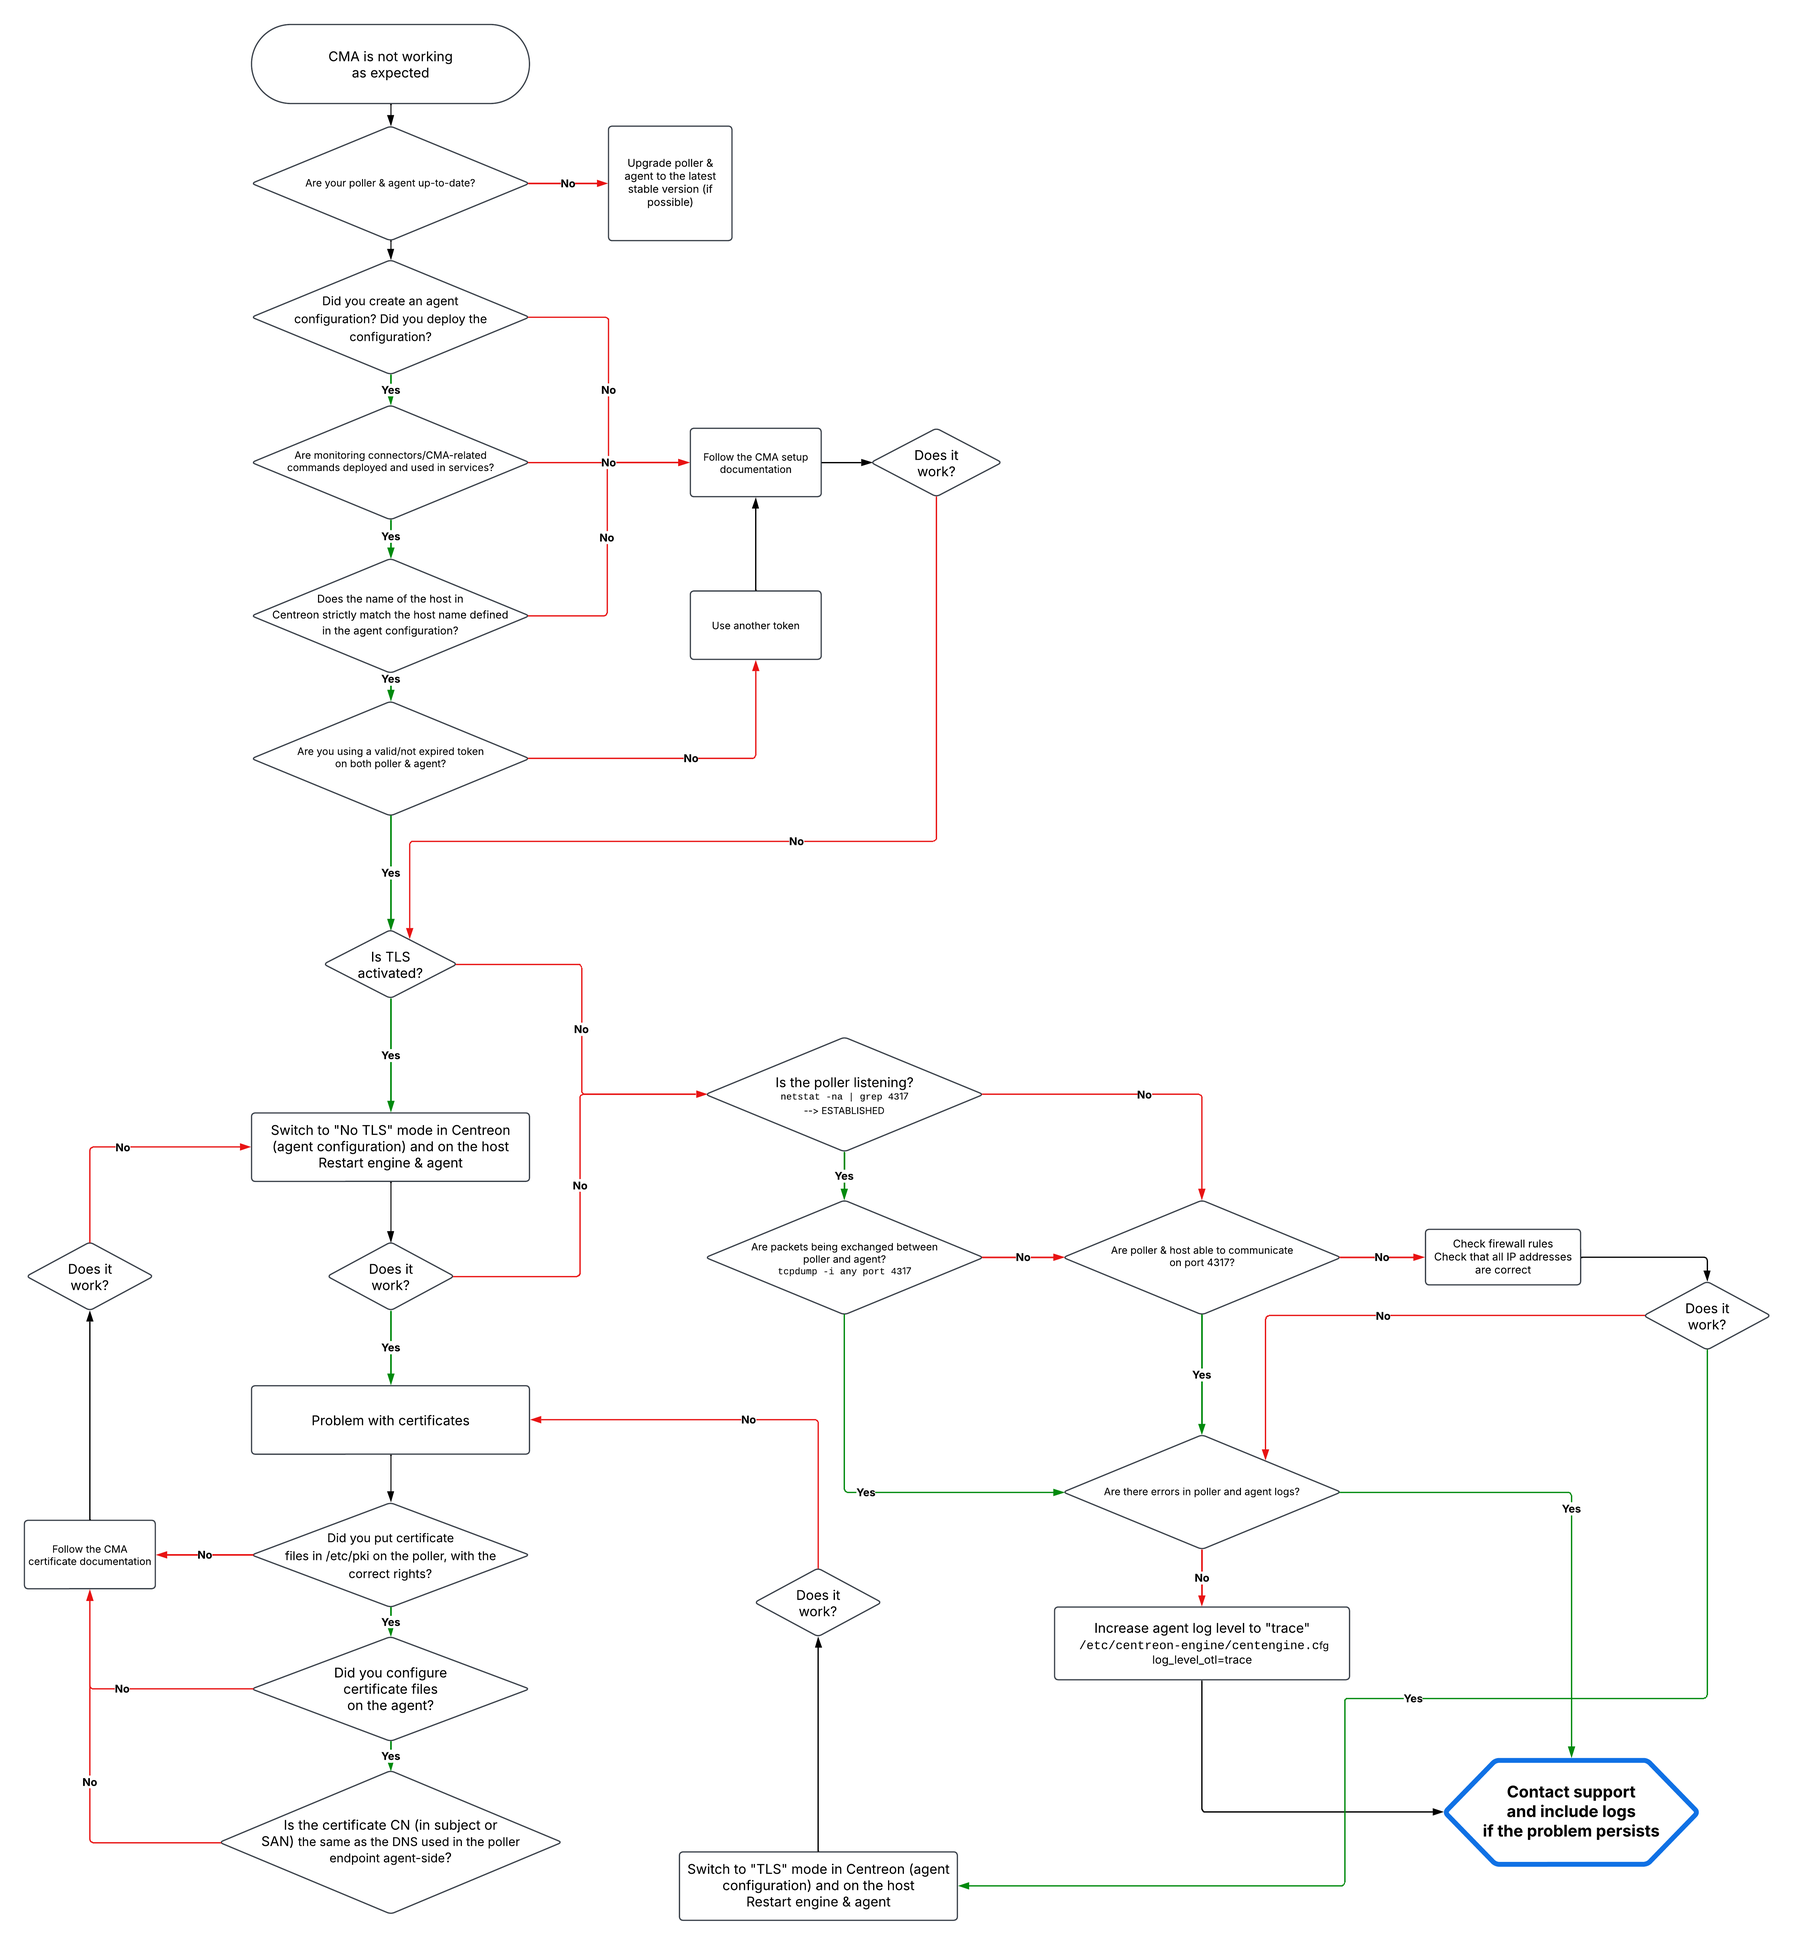
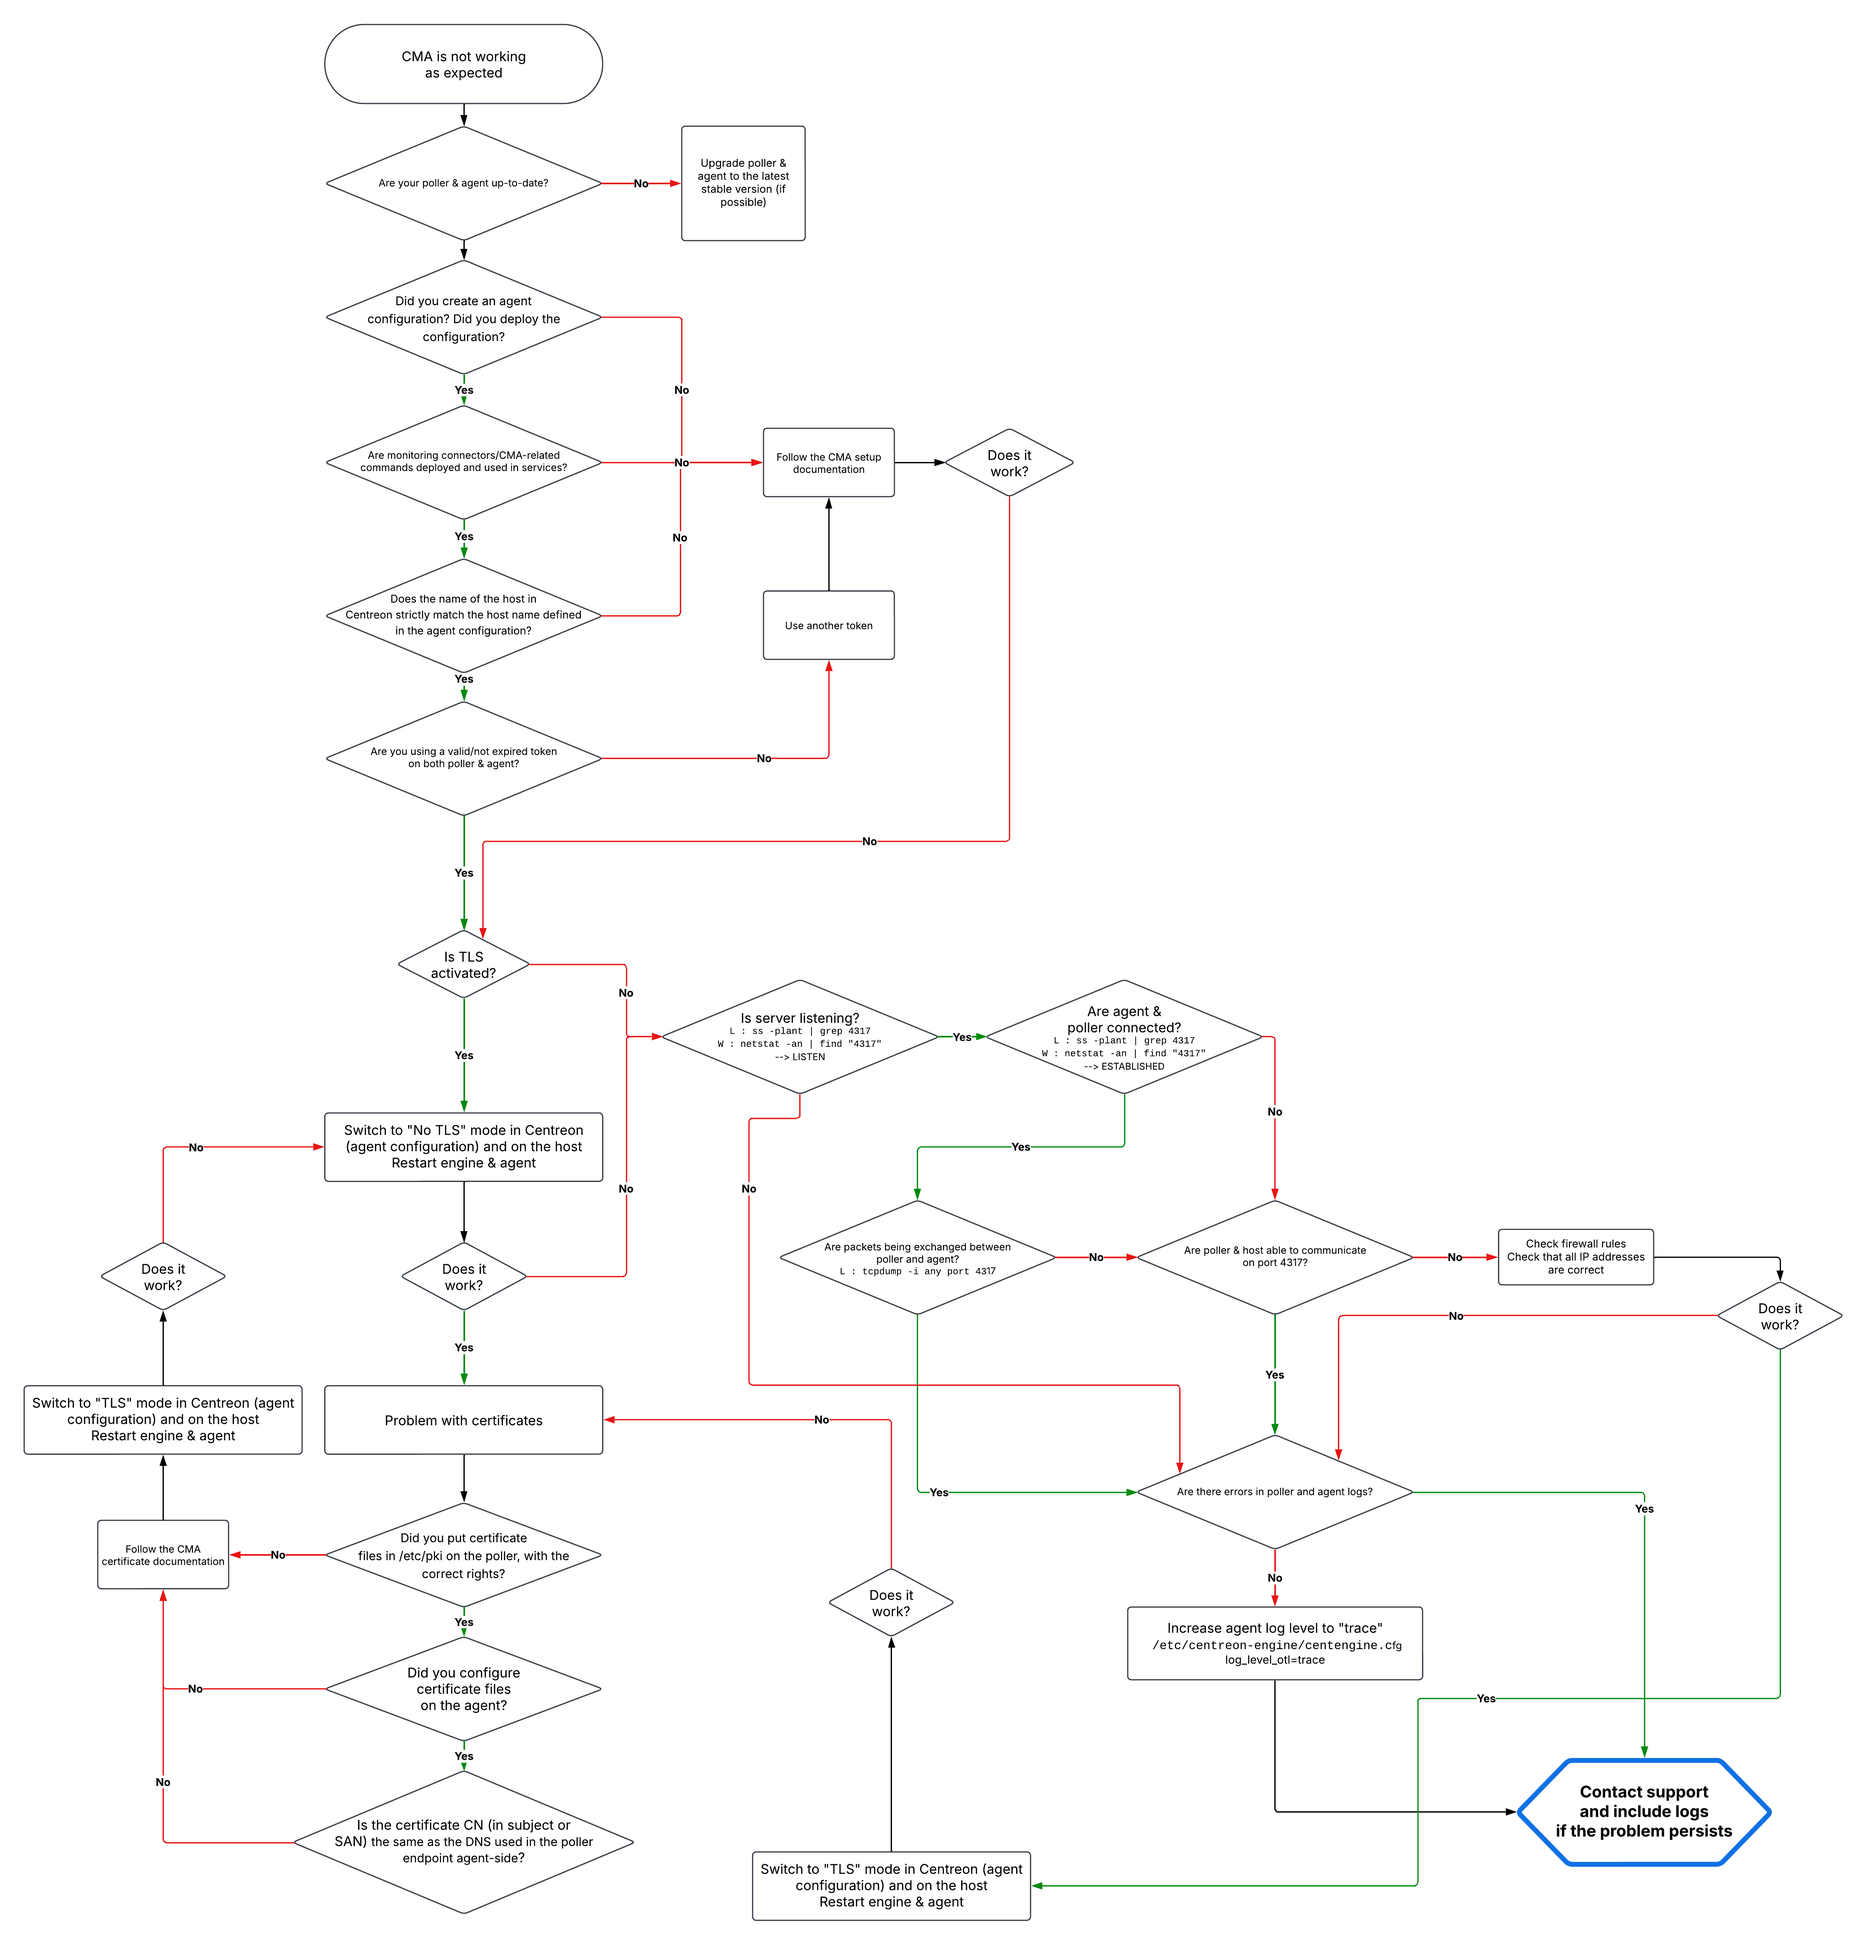
changes following review

diff --git a/pp/integrations/plugin-packs/getting-started/how-to-guides/cma/cma-troubleshooting.md b/pp/integrations/plugin-packs/getting-started/how-to-guides/cma/cma-troubleshooting.md
@@ -62,15 +62,19 @@ No lines should be returned.
 2. Execute the following command:
 
    ```bash
-   netstat -na | grep 4317
+  ss -plant | grep 4317
    ```
 
-   This command must return results, showing that the server is listening (ESTABLISHED).
+   This command must return results, showing that the agent is listening (LISTEN) or that the connection is established (ESTABLISHED).
 
    ```bash
-   Active Internet connections (servers and established)
-   Proto Recv-Q Send-Q Local Address           Foreign Address         State
-   tcp        0      0 127.0.0.1:4317          <POLLER IP>:<PORT>      ESTABLISHED
+   State           Recv-Q       Send-Q             Local Address:Port                Peer Address:Port       Process
+   LISTEN          0            0                      0.0.0.0:4317                       ::::
+   ```
+
+   ```bash
+   State           Recv-Q       Send-Q             Local Address:Port                Peer Address:Port       Process
+   ESTAB          0            0                      0.0.0.0:4317                       <POLLER IP>:<PORT> 
    ```
 
 </TabItem>
@@ -115,13 +119,21 @@ The value **true** must be returned.
 2. Execute the following command:
 
    ```bash
-   netstat -na | grep 4317
+   netstat -an | find "4317"
    ```
 
-   This command must return results, showing that the server is listening (ESTABLISHED).
+   This command must return results, showing that the agent is listening (LISTEN) or that the connection is established (ESTABLISHED).
 
    ```bash
-   TCP        127.0.0.1:4317          <IP COLLECTEUR>:<PORT>               ESTABLISHED
+   Active Internet connections (servers and established)
+   Proto Recv-Q Send-Q Local Address           Foreign Address         State
+   tcp        0      0 0.0.0.0:4317          ::::                    LISTEN
+   ```
+
+   ```bash
+   Active Internet connections (servers and established)
+   Proto Recv-Q Send-Q Local Address           Foreign Address         State
+   tcp        0      0 0.0.0.0:4317          <POLLER IP>:<PORT>      ESTABLISHED
    ```
 
 </TabItem>
@@ -141,15 +153,19 @@ The value **true** must be returned.
 2. Execute the following command:
 
    ```bash
-   netstat -na | grep 4317
+   ss -plant | grep 4317
    ```
 
-   This command must return results, showing that the server is listening (ESTABLISHED).
+   This command must return results, showing that the poller is listening (LISTEN) or that the connection is established (ESTABLISHED).
 
    ```bash
-   Active Internet connections (servers and established)
-   Proto Recv-Q Send-Q Local Address           Foreign Address         State
-   tcp        0      0 127.0.0.1:4317          <HOST IP>:<PORT>        ESTABLISHED
+   State           Recv-Q       Send-Q             Local Address:Port                Peer Address:Port       Process
+   LISTEN          0            0                      0.0.0.0:4317                       ::::
+   ```
+
+   ```bash
+   State           Recv-Q       Send-Q             Local Address:Port                Peer Address:Port       Process
+   ESTAB          0            0                      0.0.0.0:4317                       <HOST IP>:<PORT> 
    ```
 
 </TabItem>

diff --git a/i18n/fr/docusaurus-plugin-content-docs-pp/current/integrations/plugin-packs/getting-started/how-to-guides/cma/cma-troubleshooting.md b/i18n/fr/docusaurus-plugin-content-docs-pp/current/integrations/plugin-packs/getting-started/how-to-guides/cma/cma-troubleshooting.md
@@ -62,15 +62,21 @@ Aucune ligne ne doit être retournée.
 2. Exécutez la commande suivante :
 
    ```bash
-   netstat -na | grep 4317
+   ss -plant | grep 4317
    ```
 
-   Elle doit retourner des résultats, indiquant que le serveur est en écoute (ESTABLISHED).
+   Elle doit retourner des résultats, indiquant que le serveur est en écoute (LISTEN) ou que la connexion est établie (ESTABLISHED).
 
    ```bash
    Active Internet connections (servers and established)
    Proto Recv-Q Send-Q Local Address           Foreign Address         State
-   tcp        0      0 127.0.0.1:4317          <IP COLLECTEUR>:<PORT>  ESTABLISHED
+   tcp        0      0 0.0.0.0:4317          ::::                    LISTEN
+   ```
+
+    ```bash
+   Active Internet connections (servers and established)
+   Proto Recv-Q Send-Q    Local Address           Foreign Address         State
+   tcp        0      0    0.0.0.0:4317          <IP COLLECTEUR>:<PORT>  ESTABLISHED
    ```
 
 </TabItem>
@@ -118,10 +124,18 @@ La valeur **true** doit être retournée.
    netstat -an | find "4317"
    ```
 
-   Elle doit retourner des résultats, indiquant que le serveur est en écoute (ESTABLISHED).
+   Elle doit retourner des résultats, indiquant que l'agent est en écoute (LISTEN) ou que la connexion est établie (ESTABLISHED).
+
+  ```bash
+   Active Internet connections (servers and established)
+   Proto Recv-Q Send-Q Local Address           Foreign Address         State
+   tcp        0      0 0.0.0.0:4317          ::::                    LISTEN
+   ```
 
    ```bash
-   TCP        127.0.0.1:4317          <IP COLLECTEUR>:<PORT>               ESTABLISHED
+   Active Internet connections (servers and established)
+   Proto Recv-Q Send-Q Local Address           Foreign Address         State
+   tcp        0      0 0.0.0.0:4317          <IP COLLECTEUR>:<PORT>      ESTABLISHED
    ```
 
 </TabItem>
@@ -141,15 +155,21 @@ La valeur **true** doit être retournée.
 2. Exécutez la commande suivante :
 
    ```bash
-   netstat -na | grep 4317
+   ss -plant | grep 4317
    ```
 
-   Elle doit retourner des résultats, indiquant que le serveur est en écoute (ESTABLISHED).
+   Elle doit retourner des résultats, indiquant que le collecteur est en écoute (LISTEN) ou que la connexion est établie (ESTABLISHED).
 
    ```bash
    Active Internet connections (servers and established)
    Proto Recv-Q Send-Q Local Address           Foreign Address         State
-   tcp        0      0 127.0.0.1:4317          <IP HOTE>:<PORT>        ESTABLISHED
+   tcp        0      0 0.0.0.0:4317          ::::                    LISTEN
+   ```
+   
+   ```bash
+   Active Internet connections (servers and established)
+   Proto Recv-Q Send-Q Local Address           Foreign Address         State
+   tcp        0      0 0.0.0.0:4317          <IP HOTE>:<PORT>      ESTABLISHED
    ```
 
 </TabItem>
